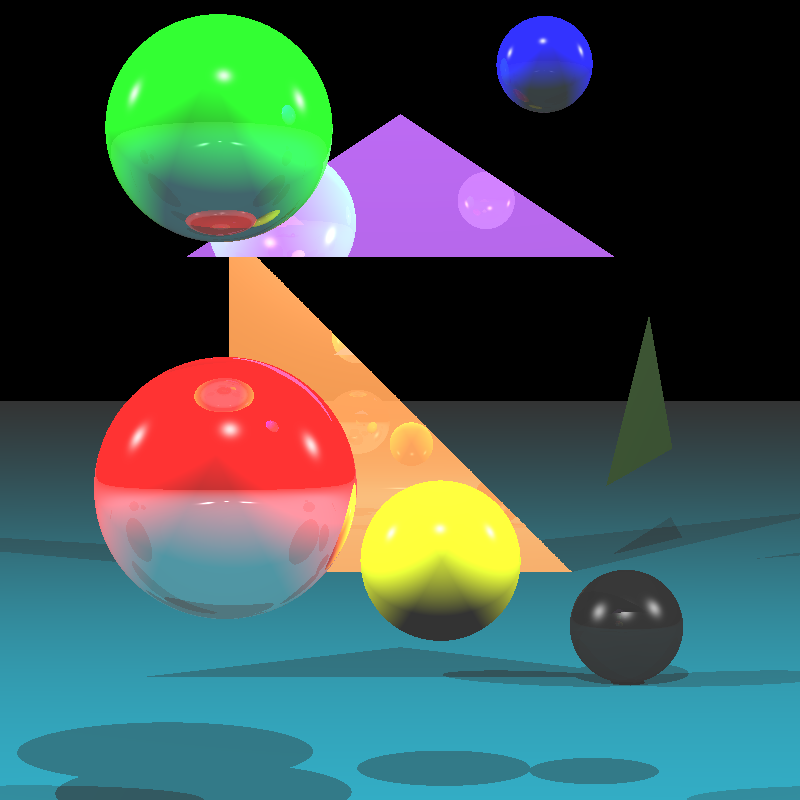
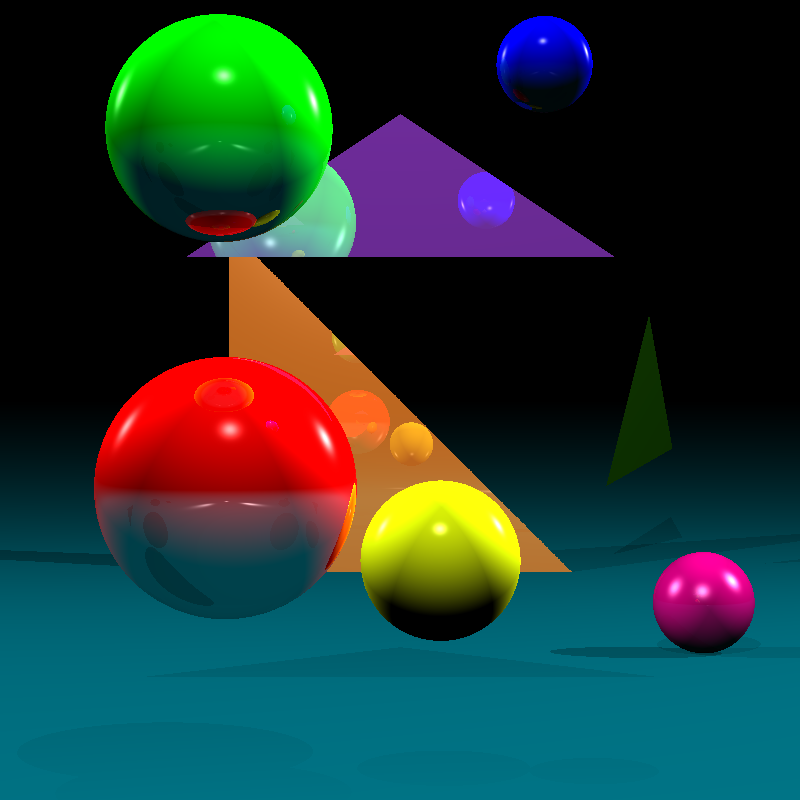
final touches to a3

diff --git a/a3/src/raytracer/Core.cpp b/a3/src/raytracer/Core.cpp
@@ -20,8 +20,7 @@ static bool debug = false;
 Core::Core() :
    image_(NULL),
    camera_(0, 0, 60),
-   ambientLight_(0.2, 0.2, 0.2),
-   lightIntensity_(1),
+   ambientLight_(0.1, 0.1, 0.1),
    worldMinWidth_(-10),
    worldMaxWidth_(10),
    worldMinHeight_(-10),
@@ -58,13 +57,13 @@ Core::Core() :
    A_Object* s3 = new Sphere(glm::vec3(3, 7, 10), 1);
    s3->setMaterial(Material(glm::vec3(0, 0, 1), glm::vec3(0.7), 128, 0.9));
 
-   // Black sphere, 10% reflective
-   A_Object* s4 = new Sphere(glm::vec3(8, -8, -25), 2);
-   s4->setMaterial(Material(glm::vec3(0.01), 2.0f*glm::vec3(1), 32, 0.9));
+   // Pink sphere, 10% reflective
+   A_Object* s4 = new Sphere(glm::vec3(12, -8, -35), 2);
+   s4->setMaterial(Material(glm::vec3(0.5, 0, 0.3), glm::vec3(0.7), 32, 0.9));
 
    // Plane
    A_Object* p = new Plane(glm::vec3(1, -10, 0), glm::vec3(0, -10, 1), glm::vec3(0, -10, -1));
-   p->setMaterial(Material(0.3f*glm::vec3(0, 0.835, 1), glm::vec3(1.5), 128, 0.5));
+   p->setMaterial(Material(glm::vec3(0, 0.2166, 0.25), glm::vec3(0.7), 128, 0));
 
    // Triangles
    // Pink triangle, 70% reflective
@@ -79,18 +78,13 @@ Core::Core() :
    A_Object* t3 = new Triangle(glm::vec3(12, -5, -80), glm::vec3(14.5, 5, -80), glm::vec3(17, -3, -90));
    t3->setMaterial(Material(0.3f*glm::vec3(0.12549, 0.470588, 0), glm::vec3(0.7), 128, 1));
 
-   // Floor from 2 triangles
-//   A_Object* tf1 = new Triangle(glm::vec3(-10, -10, -5), glm::vec3(-10, -10, -45), glm::vec3(10, -10, -45));
-//   tf1->setMaterial(Material(0.3f*glm::vec3(0, 0.835, 1), glm::vec3(0.7), 128, 0.5));
-//   A_Object* tf2 = new Triangle(glm::vec3(10, -10, -5), glm::vec3(-10.01, -10, -5), glm::vec3(10, -10, -45.01));
-//   tf2->setMaterial(Material(0.3f*glm::vec3(0, 0.835, 1), glm::vec3(0.7), 128));
 
    objects_  << s << s2 << s3 << s4 << s5 << t << t2 << t3 << p ;
 
    // Lights
-   Light l1 (glm::vec3(0, 30, 30), 0.02, 0.03, 1);
-   Light l2 (glm::vec3(-60, 30, 0), 0.02, 0.03, 1);
-   Light l3 (glm::vec3(60, 30, 0), 0.02, 0.03, 1);
+   Light l1 (glm::vec3(0, 30, 30), 1, 0.00002, 0.000030, 0.00005);
+   Light l2 (glm::vec3(-60, 30, -30), 1, 0.00002, 0.00003, 0.00005);
+   Light l3 (glm::vec3(60, 30, -30), 1.5, 0.00002, 0.00003, 0.00005);
    lights_ << l1 << l2 << l3;
 
    raycast();
@@ -260,26 +254,27 @@ glm::vec3 Core::calculateColor(Ray ray, int depth)
       {
          glm::vec3 d = hit.material_.d_;
          glm::vec3 shadowColor = glm::vec3(ambientLight_.x*d.x, ambientLight_.y*d.y, ambientLight_.z*d.z);
+
          float attenuation = 1.0f/(l.c_*pow(hitToLight, 2.0f) + l.b_*hitToLight + l.a_);
-         local += attenuation*shadowColor;
+         local += shadowColor*attenuation;
 //         local += shadowColor;
 
       }
       else
       {
-         local += (phong(lightVector, viewDirection, hit.normal_, hit.material_));
+         local += (phong(lightVector, viewDirection, hit.normal_, hit.material_, l.intensity_));
       }
    }
 
-   local += ambientLight_;
+//   local += ambientLight_;
    return local + spec;
 }
 
-glm::vec3 Core::phong(glm::vec3 lightVector, glm::vec3 viewDirection, glm::vec3 normal, Material m)
+glm::vec3 Core::phong(glm::vec3 lightVector, glm::vec3 viewDirection, glm::vec3 normal, Material m, float lightIntensity)
 {
-   glm::vec3 diffuse = m.d_*(float)(qMax((double) glm::dot(lightVector, normal), 0.0))*(float)lightIntensity_;
+   glm::vec3 diffuse = m.d_*(float)(qMax((double) glm::dot(lightVector, normal), 0.0))*lightIntensity;
    glm::vec3 reflect = glm::normalize(glm::reflect(lightVector, normal));
-   glm::vec3 specular = (float)pow(qMax(glm::dot(reflect, viewDirection), 0.0f), m.n_) * m.s_ * (float)lightIntensity_;
+   glm::vec3 specular = (float)pow(qMax(glm::dot(reflect, viewDirection), 0.0f), m.n_) * m.s_ * lightIntensity;
 
    glm::vec3 color = diffuse + specular;
    return color;

diff --git a/a3/src/raytracer/Core.h b/a3/src/raytracer/Core.h
@@ -19,10 +19,10 @@ struct Light
    float a_ = 1;
    float b_ = 0;
    float c_ = 0;
-
-   inline Light(glm::vec3 pos, float a, float b, float c)
+   float intensity_ = 1;
+   inline Light(glm::vec3 pos, float intensity, float a, float b, float c)
    {
-      pos_ = pos; a_ = a; b_ = b; c_ = c;
+      pos_ = pos; intensity_ = intensity; a_ = a; b_ = b; c_ = c;
    }
 };
 
@@ -49,7 +49,7 @@ private:
    void raycast();
    Ray generateRay(int i, int j);
    glm::vec3 calculateColor(Ray origRay, int depth);
-   glm::vec3 phong(glm::vec3 lightVector, glm::vec3 viewDirection, glm::vec3 normal, Material m);
+   glm::vec3 phong(glm::vec3 lightVector, glm::vec3 viewDirection, glm::vec3 normal, Material m, float lightIntensity);
    QRgb vec3ToQrgb(glm::vec3 c);
    bool getIntersectionWithScene(Ray r,Intersection* object, A_Object* startingObject = NULL);
    bool checkForShadowObject(Ray r, A_Object* startingObject, Intersection* hit);
